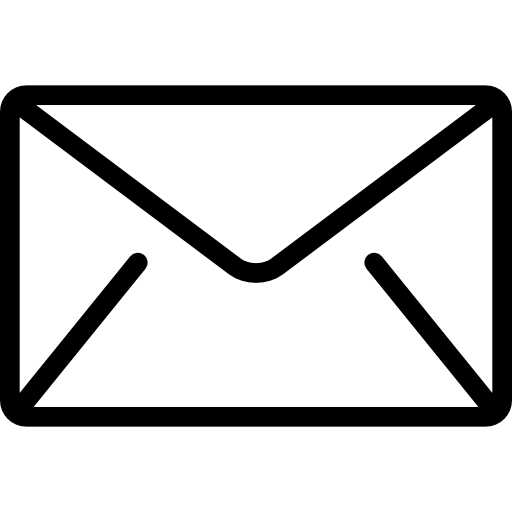
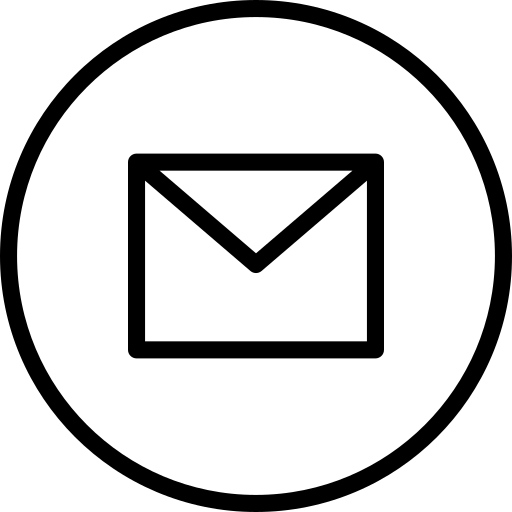
finish contact us

diff --git a/ClothesShop/wwwroot/css/contact.css b/ClothesShop/wwwroot/css/contact.css
@@ -1,0 +1,34 @@
+.contact {
+    display: flex;
+}
+
+.contact-half {
+    flex: 1;
+}
+
+.contact-left {
+    padding-top: 2rem;
+}
+
+.contact-right {
+    padding-top: 4rem;
+}
+
+.contact-text {
+    padding-top: 20px
+}
+
+.contact-center {
+    text-align: center;
+}
+
+.contact-image {
+    height: 40px;
+    margin-bottom: 1rem;
+}
+
+.map-style {
+    position: relative;
+    width: 100%;
+    height: 500px;
+}
